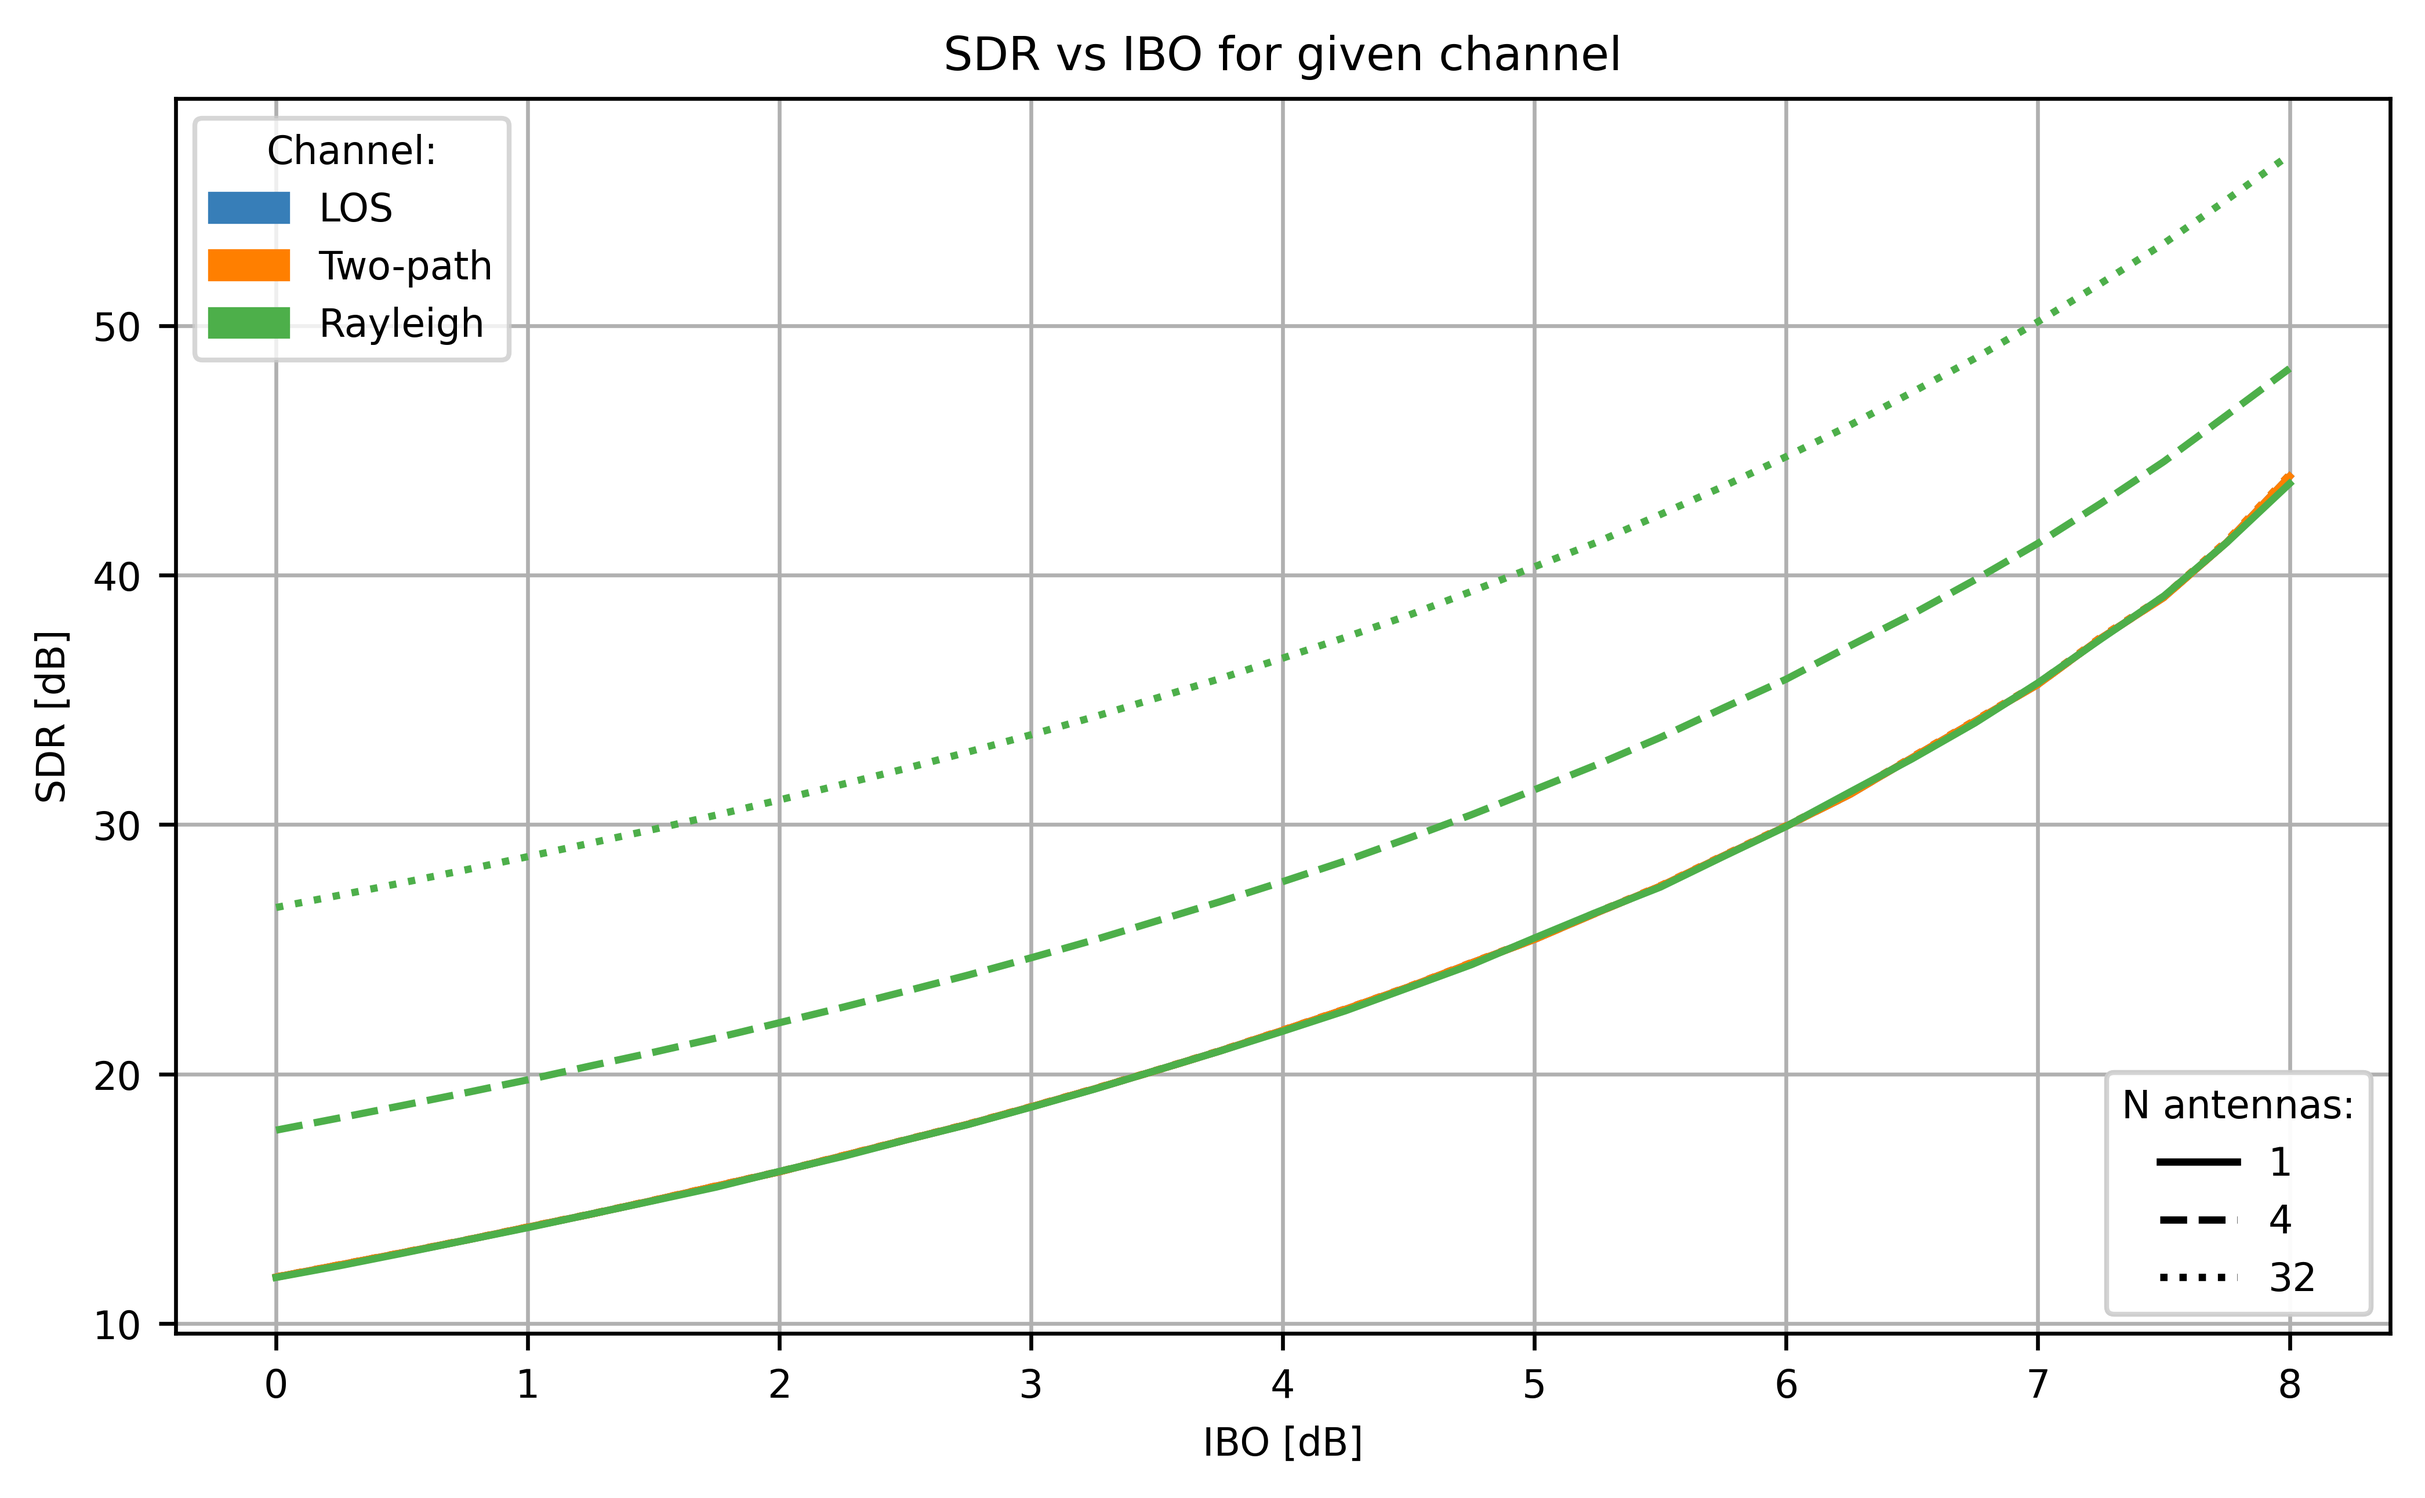
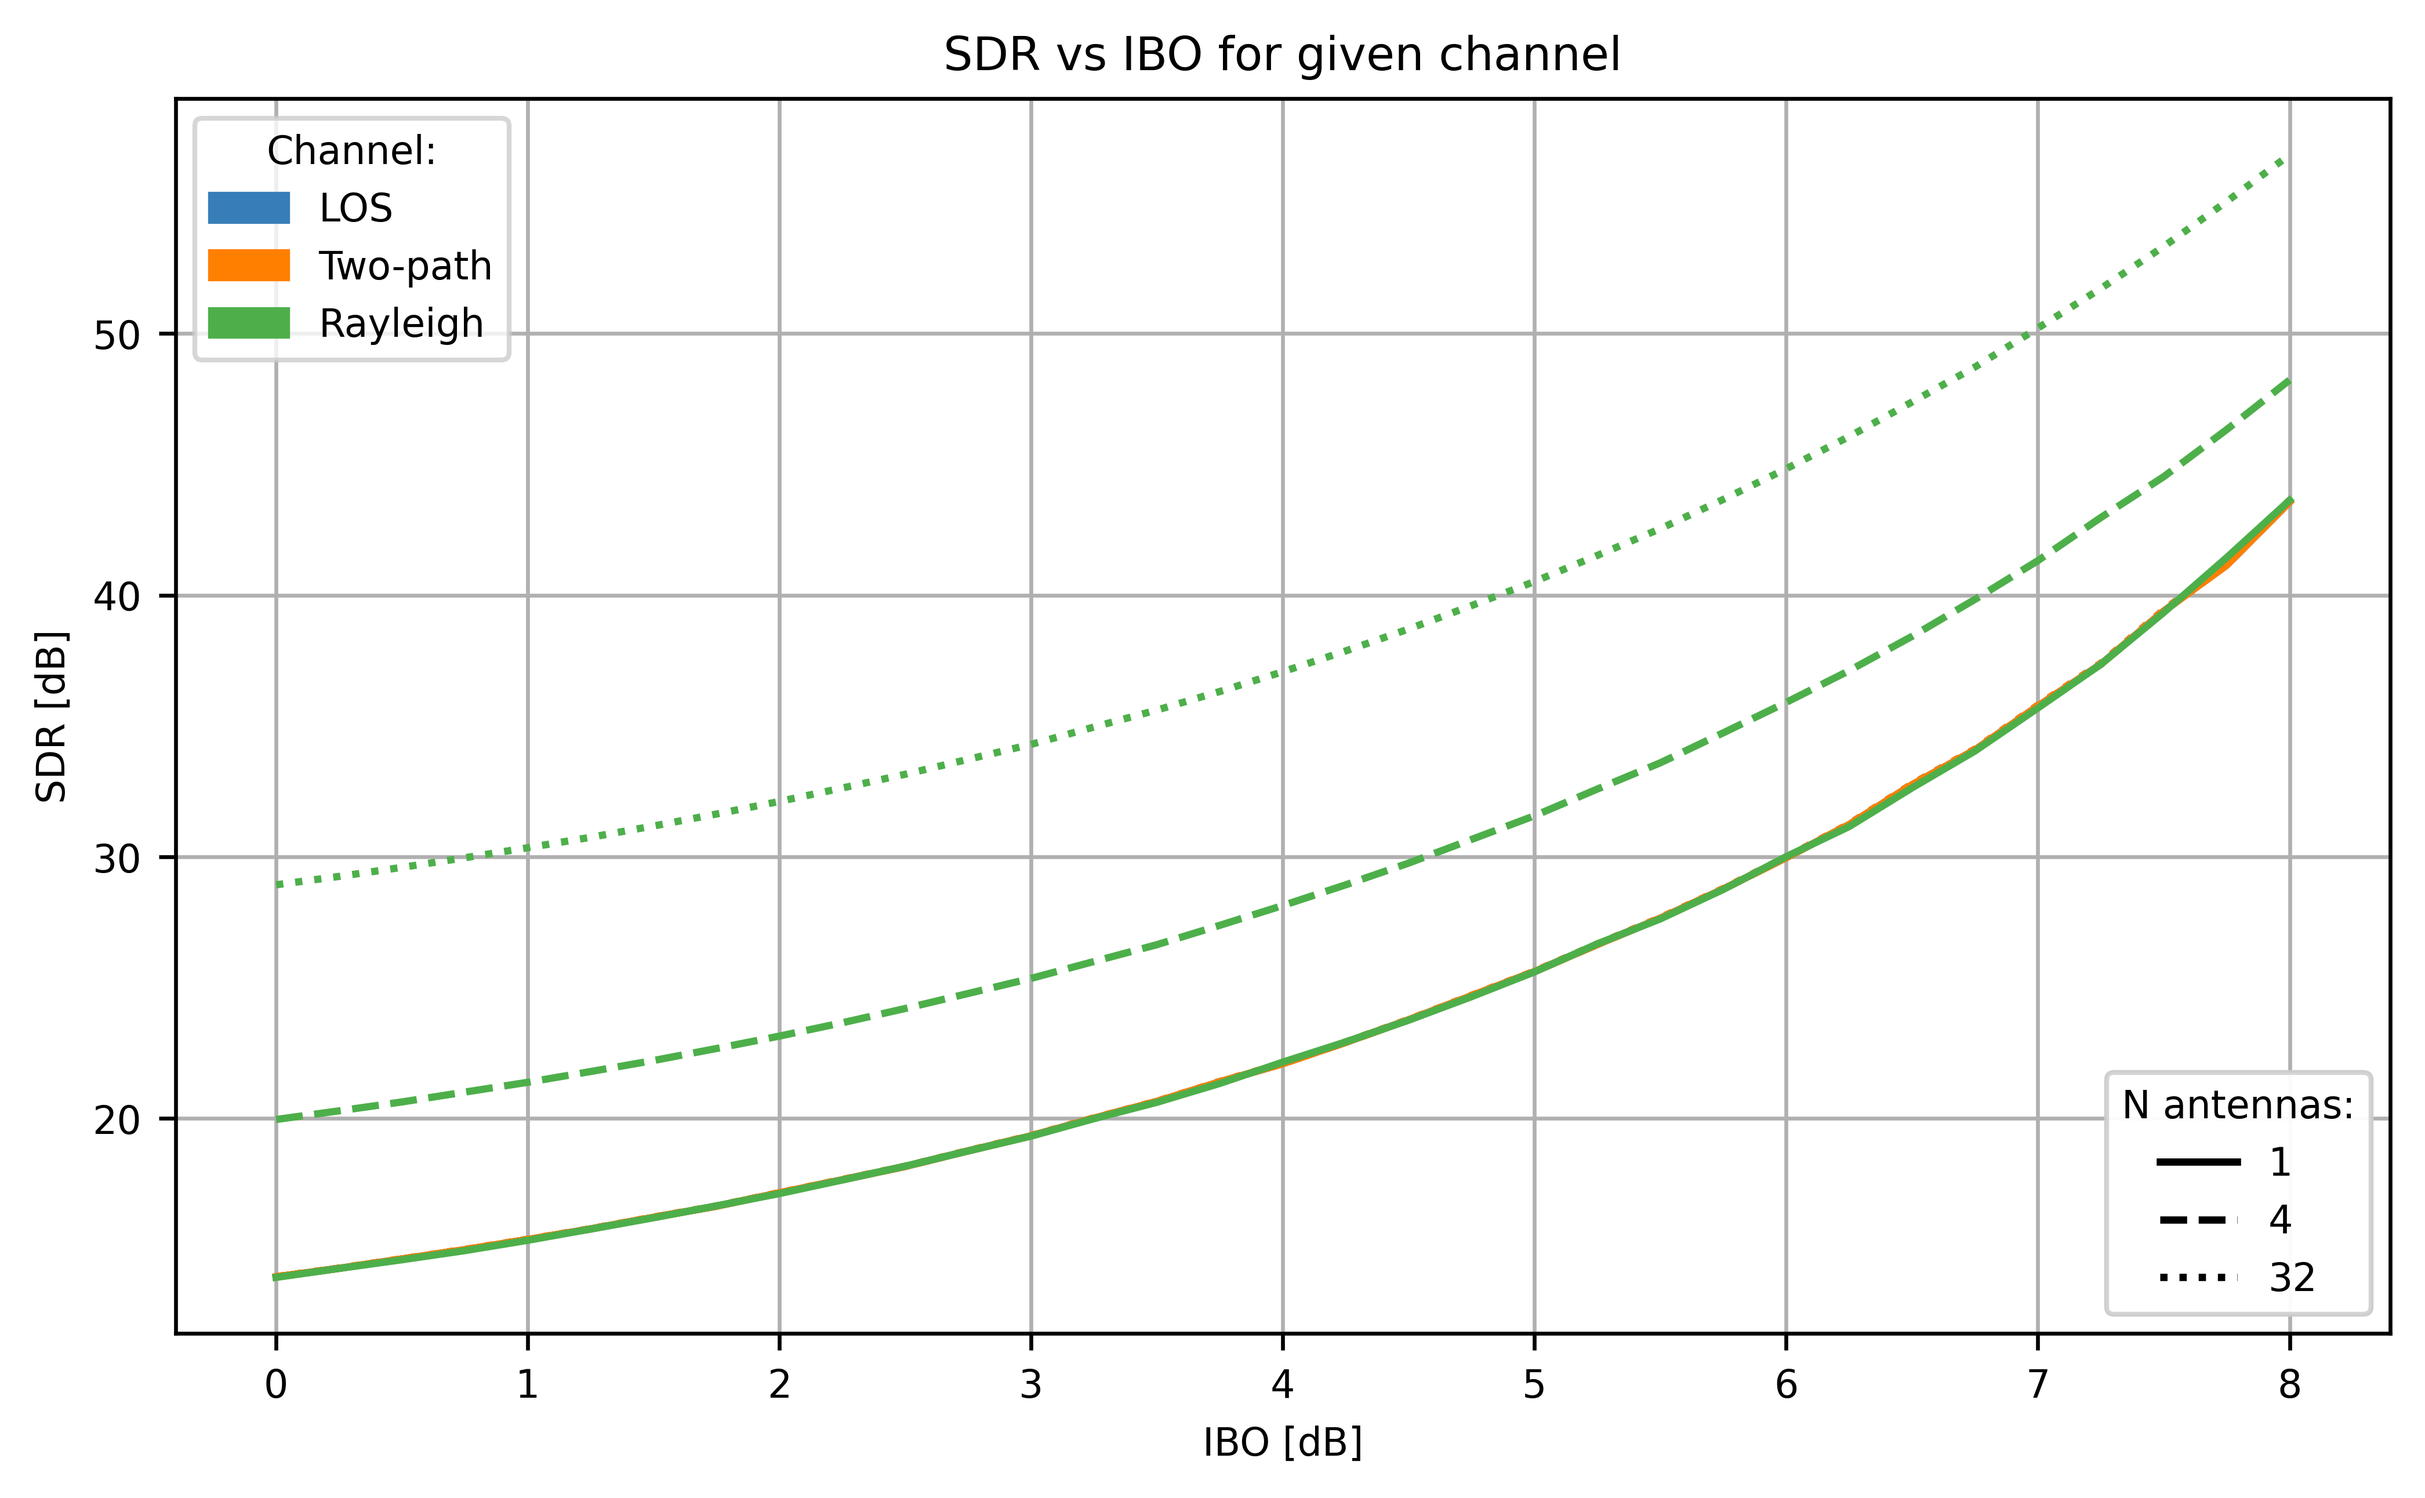
ibo vs sdr new batch results upload

diff --git a/main_beampatterns_plotting/main_sdr_vs_ibo_vs_channel.py b/main_beampatterns_plotting/main_sdr_vs_ibo_vs_channel.py
@@ -26,7 +26,7 @@ set_latex_plot_style()
 # %%
 print("Multi antenna processing init!")
 
-ibo_arr = np.arange(0, 12.01, 0.5)
+ibo_arr = np.arange(0, 8.01, 0.25)
 print("IBO values:", ibo_arr)
 
 n_ant_arr = [1, 4, 32]
